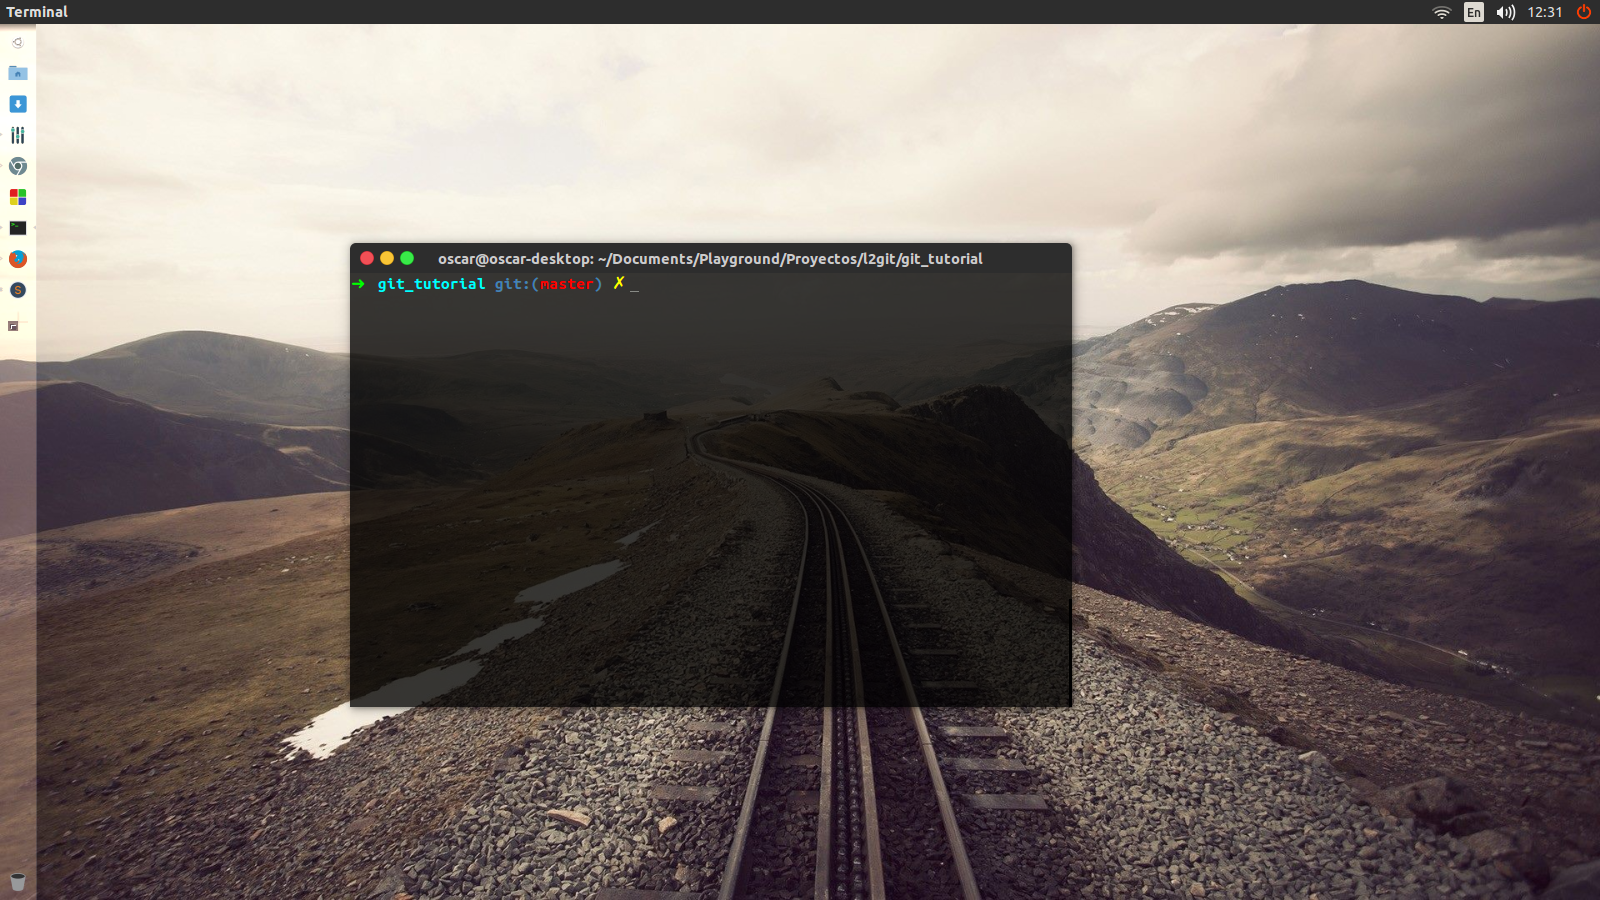
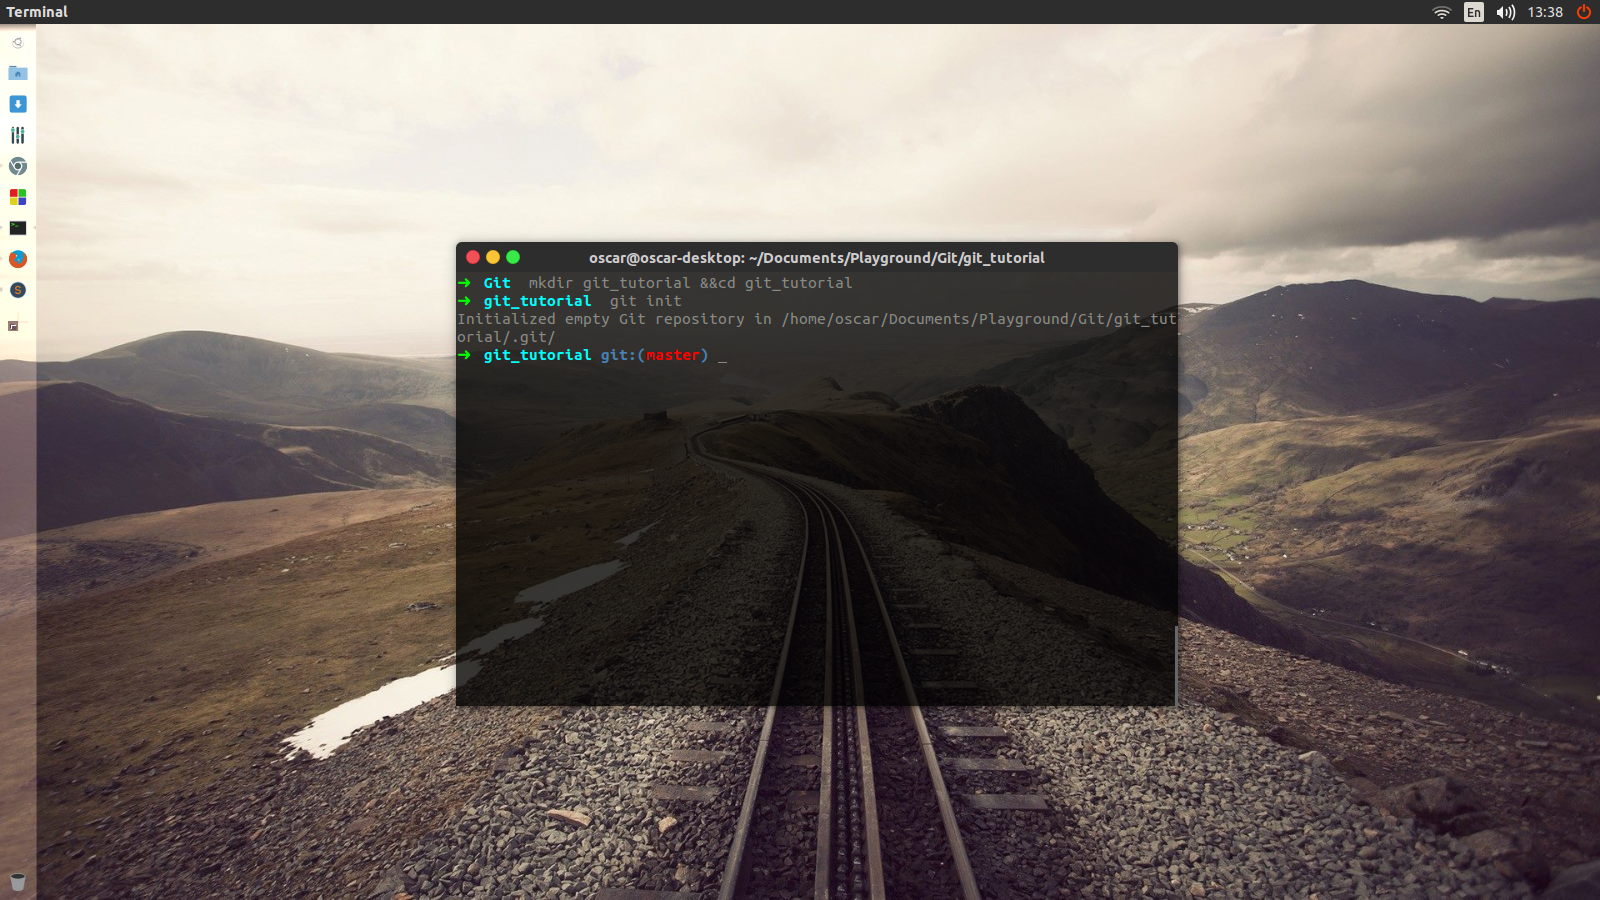
finishes tutorial

Changed region(s): [[0.2188, 0.2489, 0.75, 0.8089]]

diff --git a/readme.md b/readme.md
@@ -248,5 +248,39 @@ For now, let's go ahead and checkout a new branch called *gh-pages*
 ```console
 $ git checkout -b gh-pages
 ```
+Now we just push
+
+```console
+$ git push -u origin gh-pages
+```
+
+And we're done! Our website should be published in just a minute.
+
+###Good Practices and Naming Conventions
+
+Some good practices:
+
+* Always create a dev / mvp / staging branch from master so you can work without worries.
+* Name your branches short and sweet, prefix them with the purpose of that branch *feauture/user_aunthentication*, *test/users_spec*.
+* After making sure your branch is working, merge it to dev and then delete that branch. This avoids having unused left-over data.
+
+Feel free to add any other good practices you feel necessary! How? like this:
+
+###Contributing
+
+1. Fork project!
+2. Make changes!
+3. Pull request!
+
+###Author
+
+####Oscar Elizondo
+* http://twitter.com/oehinojosa
+* http://github.com/oelizondo
 
 
+###Where to now?
+
+These are just the basics of git, I would recommend checking out [Gitflow](https://github.com/nvie/gitflow) to see where these conventions and practices come from. [TryGit](https://try.github.io/levels/1/challenges/1) is acclaimed by the community, why don't you give it a try?
+
+If something is not clear enough here, feel free to send a message or create an issue.
